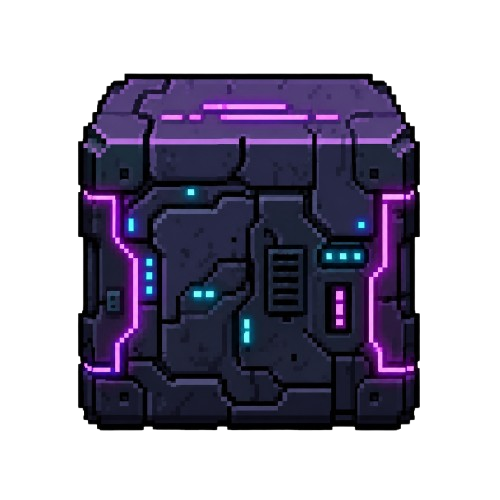
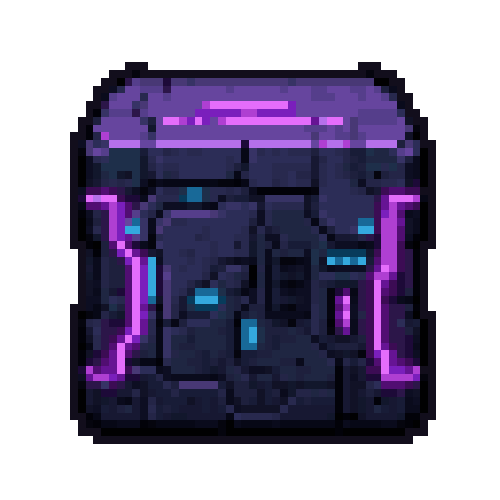
PC: fundo neon nas cenas 1 e 2, caixas pixeladas e prédios remasterizados
- bg_neon_cena1.png (cidade neon com OVNI, 1935x1080) no bj_2 da cena1 e
  da cena2, em y -225 com altura 1080 para cobrir toda a faixa vertical
  que a câmera mostra.
- Caixas (bloco a bloco4) convertidas para a grade de 3 px de tela por
  pixel, como o robô e o cenário.
- p5.png e p6.png (prédios da cena2) trocados pelo remaster, alinhados
  prédio a prédio à posição e ao recorte dos antigos e pixelados como
  em outubro (gamma 1.0).
- convert.py: grupo 'caixas' e SRC_OVERRIDE para as fontes do remaster.

Changed region(s): [[0.12, 0.12, 0.87, 0.9], [0.36, 0.48, 0.39, 0.51]]

diff --git a/ferramentas/convert.py b/ferramentas/convert.py
@@ -38,15 +38,26 @@ groups = [
     ('drone2',    ['34.png'], dict(colors=20, outline=OUT, gamma=0.85)),
     ('upvida',    obj_files({'upvida'}), dict(colors=16, outline=OUT, gamma=0.85)),
 ] + [(f'arvore_{f}', [f], dict(colors=16, outline=OUT, gamma=0.85, scale='max')) for f in ['01.png', '05.png', '17.png', '19.png']] + [
-    ('predio_p5', ['p5.png'], dict(colors=32, outline=OUT, gamma=0.78, scale='max')),
-    ('predio_p6', ['p6.png'], dict(colors=32, outline=OUT, gamma=0.78, scale='max')),
+    # p5/p6 (cena2): remaster de 11/11/2026, alinhado ao contorno antigo; ja e claro, entao gamma 1.0
+    ('predio_p5', ['p5.png'], dict(colors=32, outline=OUT, gamma=1.0, scale='max')),
+    ('predio_p6', ['p6.png'], dict(colors=32, outline=OUT, gamma=1.0, scale='max')),
     ('piso',      ['tilenovo.png'], dict(colors=20, outline=None, gamma=0.78)),
     ('barra',     ['assets/image/metade barra.png'], dict(colors=20, outline=None, gamma=0.78)),
+    # caixas (11/11/2026): imagem unica de 500x500 exibida a ~193x192 em todas as cenas
+    ('caixas',    obj_files({'bloco', 'bloco2', 'bloco3', 'bloco4'}),
+                  dict(colors=32, outline=OUT, gamma=1.0, sat=1.1, con=1.3, resample=Image.Resampling.BOX)),
 ] + [(f'bg_{f}', [f], BG) for f in ['bg_ad_game.png', 'bg_1.png', 'lab_exeterno.png', 'finalbg.png',
                                      'assets/image/ChatGPT Image 17 de jun. de 2026, 11_31_27.png']]
+# originais que nao vem do backup (caminho relativo a pasta acima do projeto, como SRC)
+SRC_OVERRIDE = {
+    'p5.png': os.path.join(os.path.dirname(os.path.abspath(SRC)), 'originais_remaster_2026-11-11', 'p5.png'),
+    'p6.png': os.path.join(os.path.dirname(os.path.abspath(SRC)), 'originais_remaster_2026-11-11', 'p6.png'),
+}
+def src_of(f):
+    return SRC_OVERRIDE.get(f, os.path.join(SRC, f))
 done = set(); log = []
 for name, files, kw in groups:
-    files = [f for f in files if f not in done and os.path.exists(os.path.join(SRC, f))]
+    files = [f for f in files if f not in done and os.path.exists(src_of(f))]
     if not files: print('VAZIO', name); continue
     agg = max if kw.pop('scale', 'median') == 'max' else statistics.median
     sx = agg([s[0] for f in files for s in scales.get(f, [])] or [1.0])
@@ -54,7 +65,7 @@ for name, files, kw in groups:
     bx, by = max(1.0, P / sx), max(1.0, P / sy)
     bx = round(bx) if abs(bx - round(bx)) < 0.15 else round(bx, 2)
     by = round(by) if abs(by - round(by)) < 0.15 else round(by, 2)
-    process_group([(os.path.join(SRC, f), os.path.join(DST, f)) for f in files], bx, by, **kw)
+    process_group([(src_of(f), os.path.join(DST, f)) for f in files], bx, by, **kw)
     done.update(files)
     print(f'{name:14s} {len(files):3d} arquivos  bloco {bx}x{by}')
 json.dump(sorted(done), open(OUTLIST, 'w'), ensure_ascii=False, indent=0)

diff --git a/ferramentas/LEIAME.md b/ferramentas/LEIAME.md
@@ -40,3 +40,15 @@ Para converter um sprite novo, adicione uma linha à lista `groups` do `convert.
 - **Imagens esticadas nas cenas** (prédios, árvores): usam `scale='max'`.
 - **Pixel art de origem** (robôs): usa `src_palette=True` e redução `NEAREST`.
 - **Efeitos criados nos eventos:** posicione no centro do alvo com `Alvo.BoundingBoxCenterX()` e `Alvo.BoundingBoxCenterY()`, porque os sprites têm origem no canto superior esquerdo.
+
+## Mudanças de 11/11/2026
+
+- **Caixas** (`bloco` a `bloco4`): convertidas com o grupo `caixas` do `convert.py` (32 cores,
+  contorno, gamma 1.0, redução BOX). Antes, era a única imagem de cenário fora da grade.
+- **Prédios da cena2** (`p5.png`, `p6.png`): trocados por uma versão remasterizada, alinhada
+  prédio a prédio à posição e ao recorte dos antigos. As fontes alinhadas, ainda sem pixelar,
+  ficam em `../originais_remaster_2026-11-11/`, ao lado dos backups. O `convert.py` lê essas
+  fontes no lugar do backup (`SRC_OVERRIDE`) e usa gamma 1.0, porque o remaster já é claro.
+- **Fundo das cenas 1 e 2:** `bg_neon_cena1.png` (1935x1080, ampliado com NEAREST a partir de
+  1679x937), no objeto `bj_2` com y -225 e altura 1080, para cobrir tudo o que a câmera mostra
+  na vertical. A imagem já é pixel art, então não passa pelo `convert.py`.
